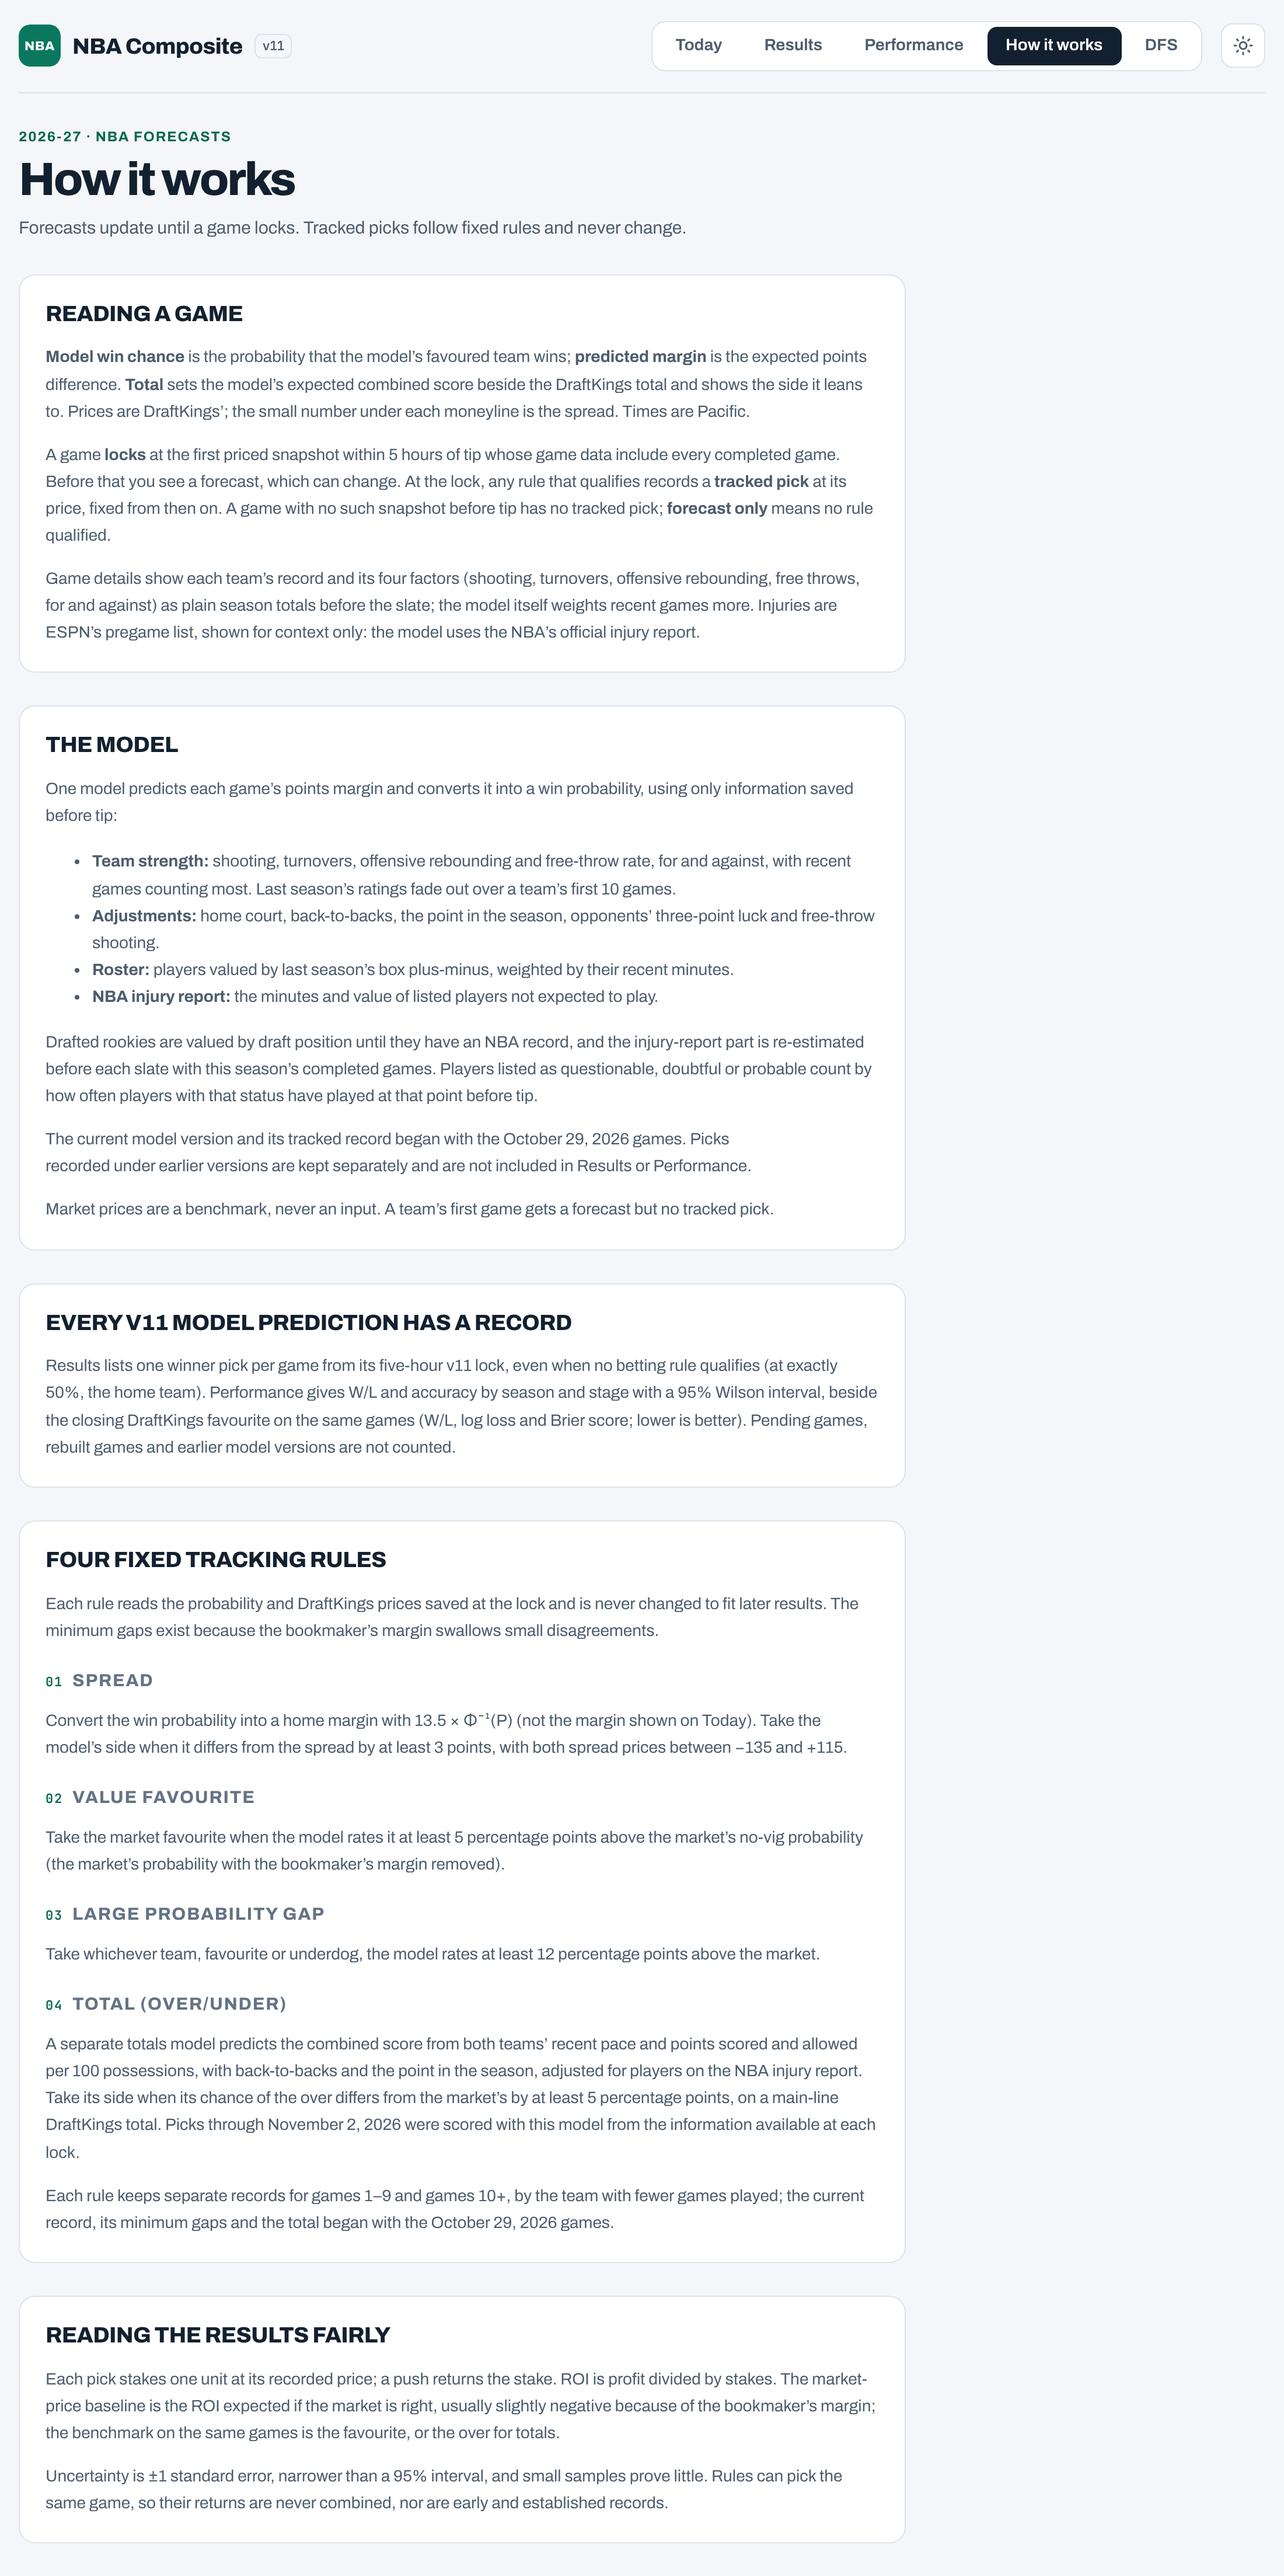
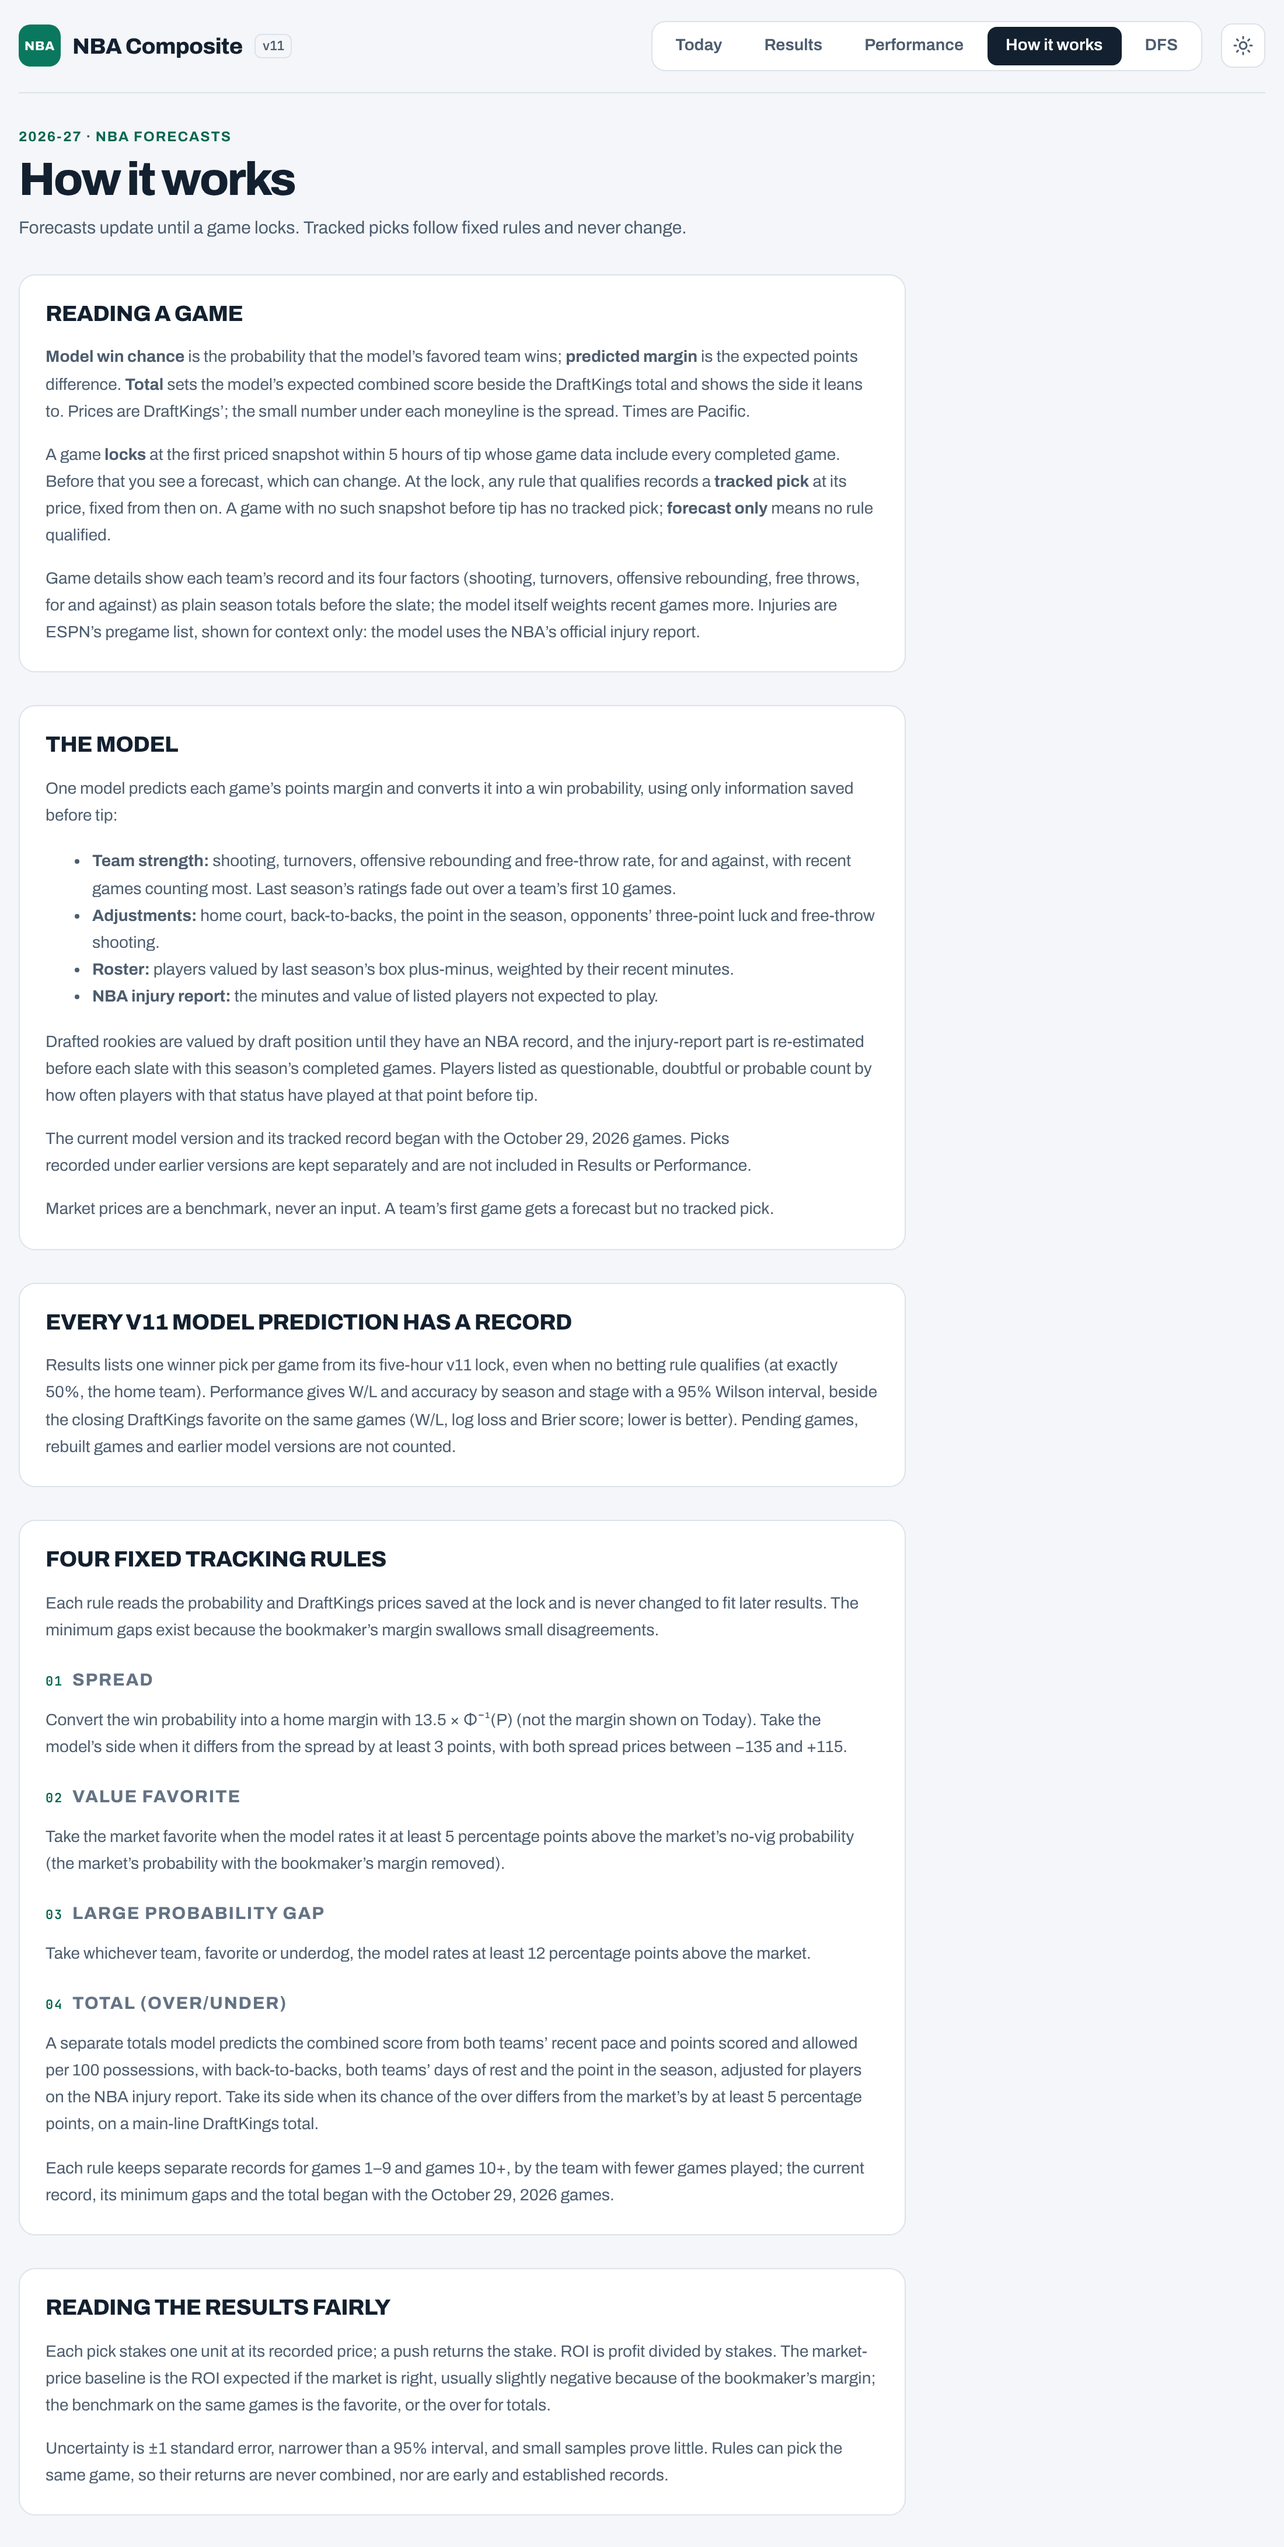
Public pages: American spelling
favourite -> favorite, favoured -> favored, Colour -> Color in every
user-facing string of public_site.py (Today, Results, Performance, How it
works), including the How it works anchor #favorite and the Performance
link to it. Internal data keys, the workbench and code comments are
unchanged. A rendered scan of all five public pages finds no British
spellings left.

Claude-Session: https://claude.ai/code/session_01Tymo9BKN1JwSqwwuephphQ

Changed region(s): [[0.0309, 0.2805, 0.68, 0.8726], [0.0309, 0.0623, 0.68, 0.2493], [0.0309, 0.9038, 0.3091, 0.9349]]

diff --git a/public_site.py b/public_site.py
@@ -20,7 +20,7 @@ from matchup_context import MatchupContext
 PAGES = (("index.html", "Today"), ("results.html", "Results"),
          ("performance.html", "Performance"), ("how-it-works.html", "How it works"),
          ("dfs.html", "DFS"))
-RULES = (("H5·3", "Spread", "spread"), ("H2·F·5", "Value favourite", "favourite"),
+RULES = (("H5·3", "Spread", "spread"), ("H2·F·5", "Value favorite", "favorite"),
          ("H4", "Large probability gap", "gap"), ("OU", "Total (over/under)", "total"))
 PREDICTION_STAGES = (("early", "Early · games 1–9"),
                      ("established", "Established · games 10+"),
@@ -425,7 +425,7 @@ class PublicSite:
         u, d = self.ui, self.predictions
         body = ("<h2 class='sec'>Model predictions · v11</h2><p class='public-note'>One winner prediction per game, "
                 "frozen at the 5 h lock, whether or not a tracked betting rule qualifies. "
-                "Pending games have no W/L result. The closing favourite is a later benchmark.</p>")
+                "Pending games have no W/L result. The closing favorite is a later benchmark.</p>")
         if not len(d):
             return body + "<div class='public-empty'><h3>No locked v11 predictions yet</h3><p>Predictions appear here after a valid five-hour snapshot is saved.</p></div>"
         options = (("stage", "Prediction stage", [("all", "All stages")]+list(PREDICTION_STAGES)),
@@ -435,7 +435,7 @@ class PublicSite:
             f"<div><label for='prediction-{key}'>{name}</label><select id='prediction-{key}' data-prediction-filter='{key}'>"
             + "".join(f"<option value='{v}'>{label}</option>" for v,label in opts)+"</select></div>"
             for key,name,opts in options) + "</div>"
-        labels = ["Game", "Stage / season", "Model pick", "Recorded at", "Outcome", "Closing favourite"]
+        labels = ["Game", "Stage / season", "Model pick", "Recorded at", "Outcome", "Closing favorite"]
         rows = []
         for _, r in d.sort_values(['tip_utc','game_id'], ascending=False).iterrows():
             result = self.prediction_result(r)
@@ -484,7 +484,7 @@ class PublicSite:
                 c = r['comparison']
                 if c:
                     mw, fw = (int(round(c[k]['acc']*c['n'])) for k in ('model','market'))
-                    body += (f"<p class='null'>Closing favourite: {fw}–{c['n']-fw} · {u.pct(c['market']['acc'])}. "
+                    body += (f"<p class='null'>Closing favorite: {fw}–{c['n']-fw} · {u.pct(c['market']['acc'])}. "
                              f"Model on those same {c['n']} games: {mw}–{c['n']-mw}. "
                              "Games without a usable DraftKings close stay in the model record above.</p>"
                              "<table class='prediction-comparison'><caption>Probability quality · lower is better</caption>"
@@ -517,7 +517,7 @@ class PublicSite:
         models = (["totals model"] if ou else
                   sorted({m.group(0) for t in tags for m in [re.search(r'v\d+$', str(t))] if m}))
         bench = (f"Same-game over ROI {100 * r['over_roi']:+.1f}%." if ou else
-                 f"Same-game market favourite ROI {u.fav_txt(r)}.")
+                 f"Same-game market favorite ROI {u.fav_txt(r)}.")
         z = analysis.z_vs_null(r)
         c = u.sig_cls(z)
         chart_records = sorted((rec for rec in records if rec['grade'] is not None),key=lambda rec:str(rec['row'].tip_utc))
@@ -529,7 +529,7 @@ class PublicSite:
                 f"<p class='null'>{uncertainty} Market-price baseline {100*r['roi_null']:+.1f}%.</p>"
                 f"<details><summary>Benchmarks and return chart</summary><p>Flat 1 unit per pick. {bench} "
                 f"Model at the {analysis.PRICE_NAMES[hyp['native']]}: {u.esc(' / '.join(models) or 'recorded model')}. "
-                "Colour marks a gap of at least two standard errors from the market-price baseline.</p>"+chart+"</details></section>")
+                "Color marks a gap of at least two standard errors from the market-price baseline.</p>"+chart+"</details></section>")
 
     def restart_txt(self):
         """'October 29, 2026': the reset slate, where the v11-family record starts."""
@@ -586,7 +586,7 @@ class PublicSite:
         body += self.restart_note() + self.void_note()
         seasons = sorted({self.season}|{r['season'] for r in self.records},reverse=True)
         desc = {"H5·3": "Model margin at least 3 points from the spread.",
-                "H2·F·5": "The market favourite when the model rates it at least 5 points higher.",
+                "H2·F·5": "The market favorite when the model rates it at least 5 points higher.",
                 "H4": "A model–market probability gap of at least 12 points.",
                 "OU": "The model’s total versus the market’s, at least 5 points of probability apart."}
         for season in seasons:
@@ -602,7 +602,7 @@ class PublicSite:
     def guide_page(self):
         body = self.head("How it works", "Forecasts update until a game locks. Tracked picks follow fixed rules and never change.")
         body += """<div class='guide'><section><h2>Reading a game</h2>
-<p><b>Model win chance</b> is the probability that the model’s favoured team wins; <b>predicted margin</b> is the expected points difference. <b>Total</b> sets the model’s expected combined score beside the DraftKings total and shows the side it leans to. Prices are DraftKings’; the small number under each moneyline is the spread. Times are Pacific.</p>
+<p><b>Model win chance</b> is the probability that the model’s favored team wins; <b>predicted margin</b> is the expected points difference. <b>Total</b> sets the model’s expected combined score beside the DraftKings total and shows the side it leans to. Prices are DraftKings’; the small number under each moneyline is the spread. Times are Pacific.</p>
 <p>A game <b>locks</b> at the first priced snapshot within 5 hours of tip whose game data include every completed game. Before that you see a forecast, which can change. At the lock, any rule that qualifies records a <b>tracked pick</b> at its price, fixed from then on. A game with no such snapshot before tip has no tracked pick; <b>forecast only</b> means no rule qualified.</p>
 <p>Game details show each team’s record and its four factors (shooting, turnovers, offensive rebounding, free throws, for and against) as plain season totals before the slate; the model itself weights recent games more. Injuries are ESPN’s pregame list, shown for context only: the model uses the NBA’s official injury report.</p></section>
 <section><h2>The model</h2>
@@ -613,16 +613,16 @@ class PublicSite:
 <li><b>NBA injury report:</b> the minutes and value of listed players not expected to play.</li></ul>
 """ + self.model_note() + """<p>Market prices are a benchmark, never an input. A team’s first game gets a forecast but no tracked pick.</p></section>
 <section><h2>Every v11 model prediction has a record</h2>
-<p>Results lists one winner pick per game from its five-hour v11 lock, even when no betting rule qualifies (at exactly 50%, the home team). Performance gives W/L and accuracy by season and stage with a 95% Wilson interval, beside the closing DraftKings favourite on the same games (W/L, log loss and Brier score; lower is better). Pending games, rebuilt games and earlier model versions are not counted.</p></section>
+<p>Results lists one winner pick per game from its five-hour v11 lock, even when no betting rule qualifies (at exactly 50%, the home team). Performance gives W/L and accuracy by season and stage with a 95% Wilson interval, beside the closing DraftKings favorite on the same games (W/L, log loss and Brier score; lower is better). Pending games, rebuilt games and earlier model versions are not counted.</p></section>
 <section><h2>Four fixed tracking rules</h2>
 <p>Each rule reads the probability and DraftKings prices saved at the lock and is never changed to fit later results. The minimum gaps exist because the bookmaker’s margin swallows small disagreements.</p>
 <h3 id='spread'><span class='rule-number'>01</span>Spread</h3><p>Convert the win probability into a home margin with 13.5 × Φ⁻¹(P) (not the margin shown on Today). Take the model’s side when it differs from the spread by at least 3 points, with both spread prices between −135 and +115.</p>
-<h3 id='favourite'><span class='rule-number'>02</span>Value favourite</h3><p>Take the market favourite when the model rates it at least 5 percentage points above the market’s no-vig probability (the market’s probability with the bookmaker’s margin removed).</p>
-<h3 id='gap'><span class='rule-number'>03</span>Large probability gap</h3><p>Take whichever team, favourite or underdog, the model rates at least 12 percentage points above the market.</p>
+<h3 id='favorite'><span class='rule-number'>02</span>Value favorite</h3><p>Take the market favorite when the model rates it at least 5 percentage points above the market’s no-vig probability (the market’s probability with the bookmaker’s margin removed).</p>
+<h3 id='gap'><span class='rule-number'>03</span>Large probability gap</h3><p>Take whichever team, favorite or underdog, the model rates at least 12 percentage points above the market.</p>
 <h3 id='total'><span class='rule-number'>04</span>Total (over/under)</h3><p>A separate totals model predicts the combined score from both teams’ recent pace and points scored and allowed per 100 possessions, with back-to-backs""" + (", both teams’ days of rest" if self.ou == "ou3" else "") + """ and the point in the season, adjusted for players on the NBA injury report. Take its side when its chance of the over differs from the market’s by at least 5 percentage points, on a main-line DraftKings total.""" + self.ou2_clause() + """</p>
 <p>Each rule keeps separate records for games 1–9 and games 10+, by the team with fewer games played; the current record, its minimum gaps and the total began with the """ + self.restart_txt() + """ games.</p></section>
 <section><h2>Reading the results fairly</h2>
-<p>Each pick stakes one unit at its recorded price; a push returns the stake. ROI is profit divided by stakes. The market-price baseline is the ROI expected if the market is right, usually slightly negative because of the bookmaker’s margin; the benchmark on the same games is the favourite, or the over for totals.</p>
+<p>Each pick stakes one unit at its recorded price; a push returns the stake. ROI is profit divided by stakes. The market-price baseline is the ROI expected if the market is right, usually slightly negative because of the bookmaker’s margin; the benchmark on the same games is the favorite, or the over for totals.</p>
 <p>Uncertainty is ±1 standard error, narrower than a 95% interval, and small samples prove little. Rules can pick the same game, so their returns are never combined, nor are early and established records.</p></section>"""
         body += dfs.guide() + "</div>"
         return self.page("How it works · NBA Composite", "how-it-works.html", body)

diff --git a/tests/test_model_predictions.py b/tests/test_model_predictions.py
@@ -96,7 +96,7 @@ def test_pages_show_forecast_only_games_and_keep_betting_records_separate():
     assert 'data-result-row ' not in html
     assert "class='prediction-badge'>Loss" in html
     perf = site.performance_page()
-    assert "class='record'>0–1" in perf and 'Closing favourite:' in perf
+    assert "class='record'>0–1" in perf and 'Closing favorite:' in perf
     assert 'Log loss' in perf and 'Brier score' in perf and '95% Wilson interval' in perf
     card = site.card(g.iloc[0])
     assert 'Model pick · 5 h lock' in card and 'Loss' in card and '51.0%' in card
